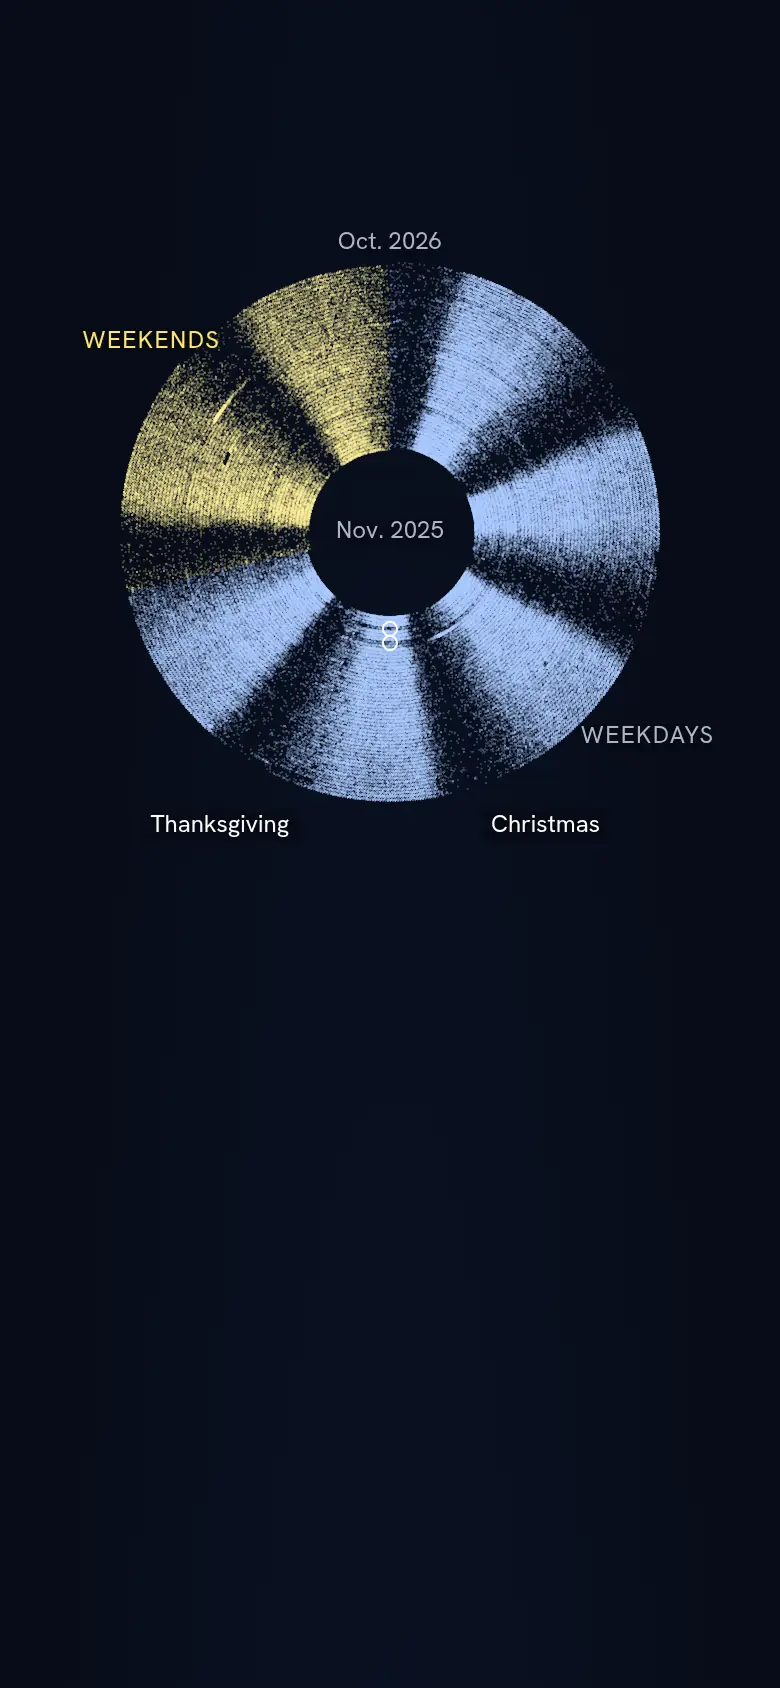
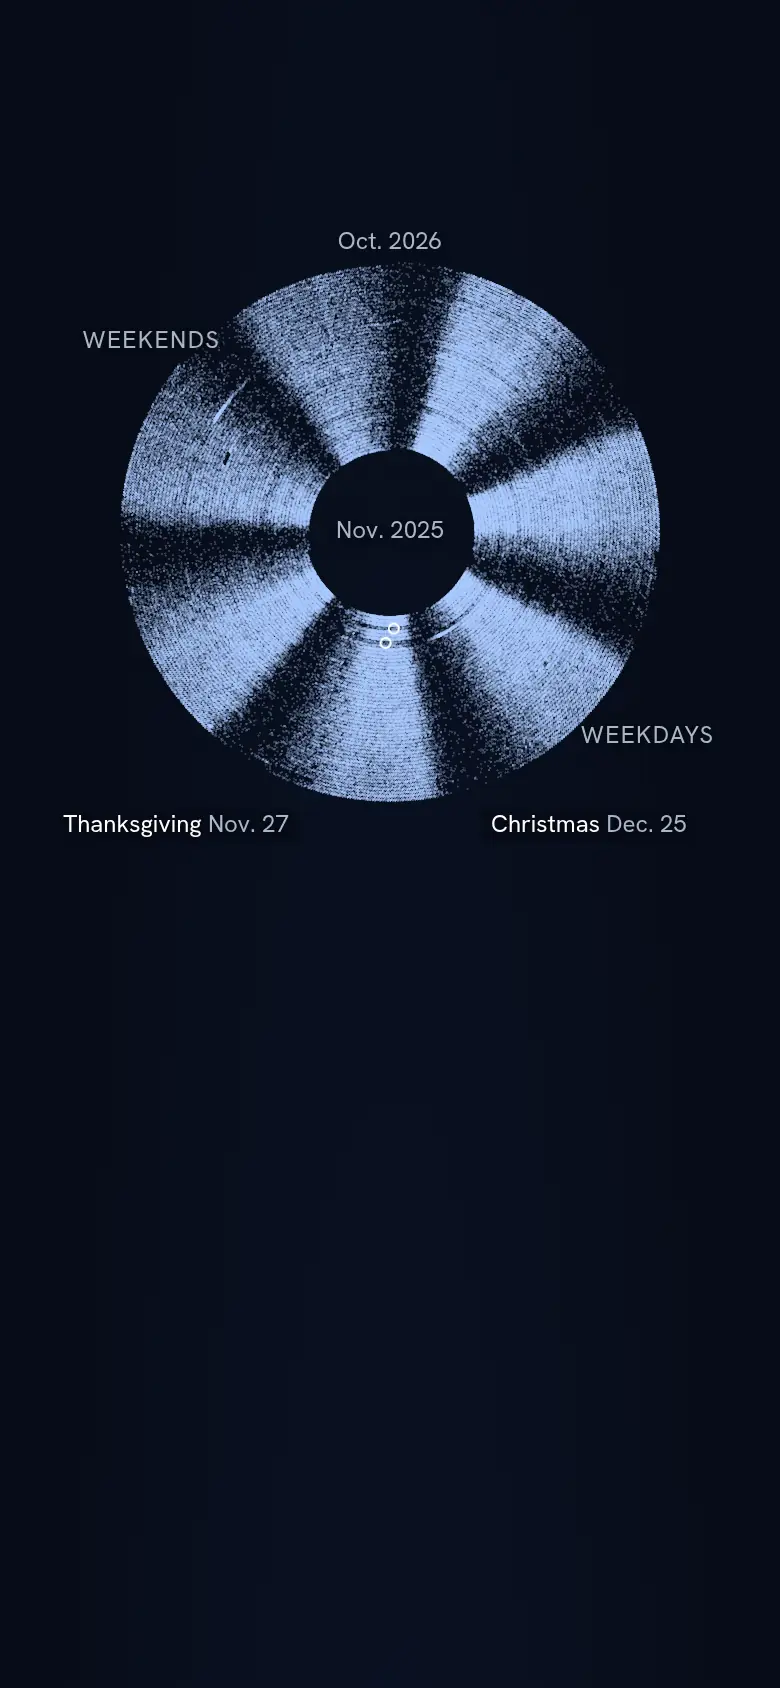
311 wait v2.1: phone vehicle labels, dimmer ending, stills

diff --git a/src/js/wait-311-labels.js b/src/js/wait-311-labels.js
@@ -115,7 +115,11 @@ export function districtPlan(DATA, prep, v) {
   const rows = DATA.groups[group].byDistrict;
   const text = (d) => (rows[d - 1].closed ? fmtDays(rows[d - 1].medianDays) : "–");
   const list = rows.map((x) => ({ d: x.district, value: x.closed ? x.medianDays : null }));
-  if (v.scene === "vehicles") return { key: "vehicles", text, only: ends(list) };
+  // Vehicles: the slowest and fastest districts; on a phone only the slowest, beside the
+  // slowest-patch label.
+  if (v.scene === "vehicles") {
+    return { key: "vehicles", text, only: ends(list).slice(0, v.narrow ? 1 : 2) };
+  }
   // Your wait: only the chosen district is labeled; "All of Austin" leaves the map bare.
   return { key: `you:${group}`, text, only: [v.focus[2]] };
 }

diff --git a/src/js/wait-311-scene.js b/src/js/wait-311-scene.js
@@ -32,7 +32,7 @@ function pointLook(st, k, cam, v, prep, hdrOn) {
   const area = (l) => v.safe.w * v.safe.h * v.dpr * v.dpr * l;
   const gainOf = (l) => {
     if (l === 2 || l === 3) return 1;
-    if (l === 7) return 0.6;  // the few left at the end, without blooming downtown
+    if (l === 7) return 0.35;  // the few left at the end, without blooming downtown
     const px = sizeOf(l) * v.dpr;
     return Math.min(1, (area(l === 5 ? 0.22 : 0.35) * 2.2) / (prep.n * px * px));
   };
